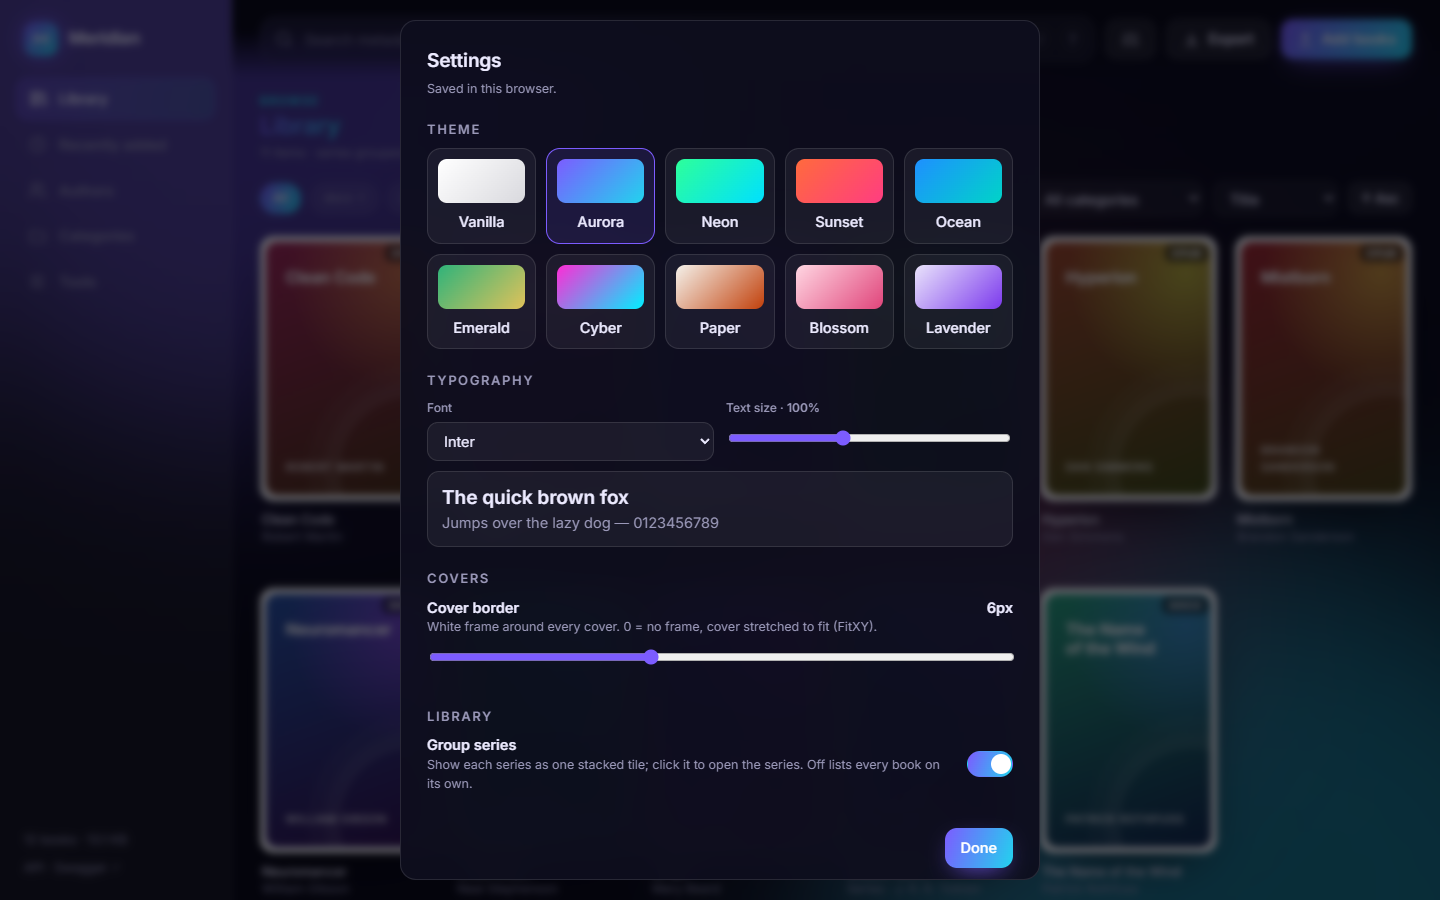
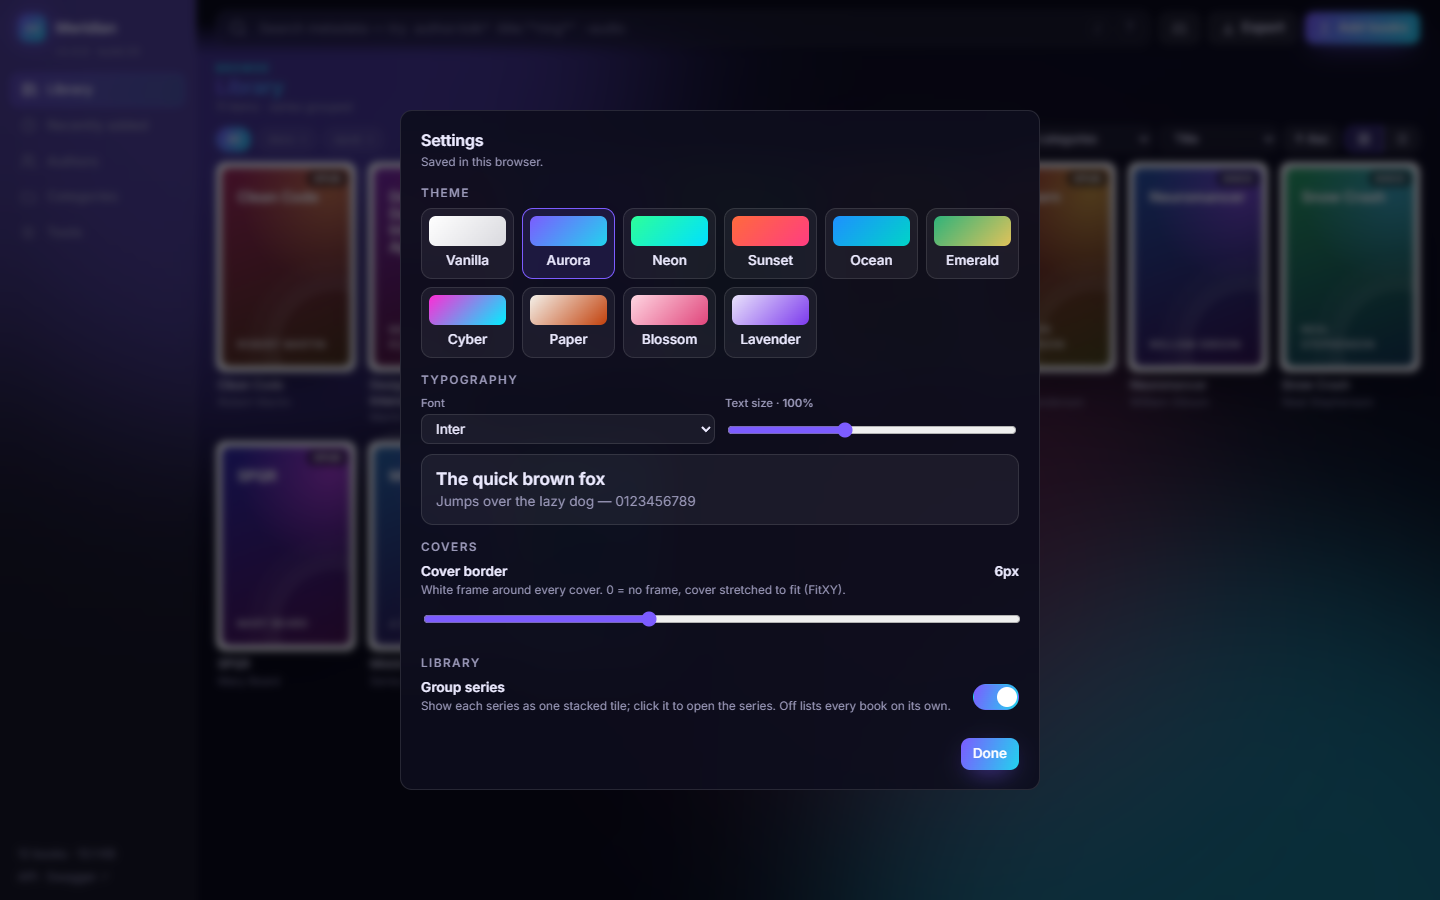
external search added

diff --git a/app/static/js/components.js b/app/static/js/components.js
@@ -1,6 +1,6 @@
 // Web components (light DOM, themed by app.css).
 import { api, esc, icon, toast, coverHTML, fmtBytes, emit, THEMES, FONTS, clampFs, getPref, setPref,
-  progressHTML, setProgress, runBatches, batchMessage } from "./api.js";
+  progressHTML, setProgress, runBatches, batchMessage, googleSearchUrl } from "./api.js";
 
 const EXT_OK = new Set("epub pdf docx doc odt rtf txt md html htm mobi azw azw3 kfx fb2 djvu cbz cbr cb7 lit chm pdb zip json".split(" "));
 const extOf = (n) => n.split(".").pop().toLowerCase();
@@ -72,6 +72,7 @@ class MxDrawer extends HTMLElement {
             <div class="actions">
               <a class="btn primary" href="/api/books/${b.id}/download">${icon("download")}Download</a>
               ${b.format === "pdf" ? `<a class="btn" target="_blank" rel="noopener" href="/api/books/${b.id}/download?inline=true">${icon("book")}Read</a>` : ""}
+              <button class="btn" data-act="web-search" title="Opens Google in a new tab, searching for this book's title, author and ISBN as shown in the form below. Nothing is sent until you click.">${icon("search")}Search Google</button>
               <button class="btn" data-act="cover">${icon("image")}${b.cover_source === "user" ? "Replace cover" : "Upload cover"}</button>
               ${b.cover_source === "user" ? `<button class="btn" data-act="uncover" title="Go back to the cover embedded in the book">Remove custom cover</button>` : ""}
               <input type="file" accept="image/*" hidden id="cover-in">
@@ -175,6 +176,10 @@ class MxDrawer extends HTMLElement {
     };
     const cin = this.querySelector("#cover-in");
     this.querySelector('[data-act="cover"]').onclick = () => cin.click();
+    this.querySelector('[data-act="web-search"]').onclick = () => {      // uses the form as it is now, including unsaved edits
+      const f = Object.fromEntries([...this.querySelectorAll("#mform [name]")].map((e) => [e.name, e.value]));
+      window.open(googleSearchUrl(f), "_blank", "noopener,noreferrer");
+    };
     cin.onchange = async () => {
       if (!cin.files[0]) return;
       const fd = new FormData(); fd.append("file", cin.files[0]);

diff --git a/app/static/js/api.js b/app/static/js/api.js
@@ -127,6 +127,14 @@ export const batchMessage = (r, total, verb = "Updated") => `${verb} ${r.updated
   + (r.unchanged ? ` · ${r.unchanged} already fine` : "") + (r.failed.length ? ` · ${r.failed.length} failed` : "")
   + (r.error ? ` · stopped: ${r.error.message || "error"}` : r.stopped ? ` · stopped, ${r.remaining} not processed` : "");
 
+/** Google search URL for a book: quoted title, authors and the ISBN (else the word "book"). It is only ever opened by the user's click
+ *  in a new tab - the app itself never contacts Google. */
+export function googleSearchUrl({ title = "", author = "", isbn = "" }) {
+  const authors = String(author).split(";").map((a) => a.trim()).filter(Boolean).join(" ");
+  const q = [title.trim() ? `"${title.trim()}"` : "", authors, String(isbn).trim() || "book"].filter(Boolean).join(" ");
+  return "https://www.google.com/search?q=" + encodeURIComponent(q);
+}
+
 export const emit = (name, detail) => document.dispatchEvent(new CustomEvent(name, { detail }));
 
 // ---- user preferences (theme, cover borders), persisted per browser

diff --git a/tests/test_offline.py b/tests/test_offline.py
@@ -17,6 +17,7 @@ def own_sources():
 def test_own_static_files_reference_no_other_host(path):
     text = path.read_text(encoding="utf-8")
     text = re.sub(r"https?://www\.w3\.org/[^\s'\"]*", "", text)      # xmlns attributes
+    text = text.replace("https://www.google.com/search?q=", "")        # the book panel's Search button, see the test below
     assert not EXTERNAL.findall(text), f"{path.name} mentions another host"
 
 
@@ -66,3 +67,12 @@ def test_bundled_assets_carry_their_licences():
     assert "Apache License" in (STATIC / "vendor" / "LICENSE-swagger-ui.txt").read_text(encoding="utf-8")
     assert "SmartBear" in (STATIC / "vendor" / "NOTICE-swagger-ui.txt").read_text(encoding="utf-8")       # Apache-2.0 section 4(d)
     assert (ROOT / "LICENSE").read_text(encoding="utf-8").startswith("MIT License")
+
+
+def test_google_search_is_only_a_link_the_user_clicks():
+    """The one place that names another host: the book panel's Search button. It must open a new tab (window.open from a click),
+    never be fetched by the app, and live in exactly one file."""
+    js = {p.name: p.read_text(encoding="utf-8") for p in (STATIC / "js").glob("*.js")}
+    assert [n for n, t in js.items() if "google.com" in t] == ["api.js"]
+    assert 'window.open(googleSearchUrl(f), "_blank", "noopener,noreferrer")' in js["components.js"]
+    assert not any(re.search(r"fetch\(\s*googleSearchUrl|api\(\s*googleSearchUrl", t) for t in js.values())

diff --git a/README.md b/README.md
@@ -168,6 +168,7 @@ mkdir -p data
 | Flat sharded storage | UUID hex split 4 chars at a time: `1234/5678/abcd/ef01/…/book-name.ext` (32 hex chars → 8 levels) |
 | Library export as ZIP | `GET /api/export?group_by=category` or `author` (optionally `format=`, `ids=`, `include_metadata=`) |
 | Metadata editing | `PATCH /api/books/{id}` (many books at once: `POST /api/books/bulk-update`, `POST /api/books/bulk-transform`). EPUB, PDF and DOCX get what they can hold **inside the file**; everything else goes into `book-name-info.json` next to the book. The response's `storage` field shows what went where. |
+| Web search | **Search Google** in the book panel opens a new browser tab with a Google search for the book's quoted title, authors and ISBN (or the word "book" when there is no ISBN), taken from the form as it is right now, including unsaved edits. It is an ordinary link opened by your click: nothing is sent anywhere until you press it, and the app itself never contacts Google. |
 | Delete books | **Book panel > Delete book**, or tick rows in list view and press **Delete** in the bar above the table. A warning dialog explains that it is permanent and lists what will go (for 10 or more books you must also type `delete`); Cancel has the focus, so Enter does not delete. Deleting removes the record **and** the book's folder on disk - the book file, cover and `-info.json` sidecar - then any parent folders left empty. Bulk deletes run in batches with a progress bar and Stop button, and report the space freed. A folder that cannot be removed (for example a file locked by another program) is reported, and **Tools > Duplicates & cleanup** sweeps up such leftovers. API: `DELETE /api/books/{id}`, `POST /api/books/bulk-delete`. |
 | Title ≠ filename | Editing the title never touches the file name. `POST /api/books/{id}/rename` renames the file (and its sidecar) separately. |
 | Themes and fonts | Ten themes (Vanilla, the default, plus Aurora, Neon, Sunset, Ocean, Emerald, Cyber, Paper, Blossom, Lavender), eleven open-source fonts and the system font, text size 80-130% (100% = 14.5px), cover border thickness and series grouping, all in Settings (sliders icon, top right) and saved per browser. The fonts are bundled with the app (Latin subset), so nothing is downloaded when you switch. `GET /api/books?group_series=true` returns the grouped view (`series_count` on each entry; filter with `series=` to list one series). |
@@ -232,7 +233,7 @@ Layout: `app/service.py` (ingest, edit, search, cleanup), `app/metadata.py` (EPU
 
 ## Notes
 
-* **No outside requests, ever.** The UI, the fonts and the Swagger page at `/docs` are all served by the app itself, and every page carries a `Content-Security-Policy` that tells the browser not to talk to any other host (`tests/test_offline.py` guards this). ReDoc is therefore not offered: it insists on loading a badge image from another site.
+* **The app makes no outside requests.** The UI, the fonts and the Swagger page at `/docs` are all served by the app itself (the only link to another site is the book panel's **Search Google** button, which opens a new tab when *you* click it), and every page carries a `Content-Security-Policy` that tells the browser not to talk to any other host (`tests/test_offline.py` guards this). ReDoc is therefore not offered: it insists on loading a badge image from another site.
 * Metadata is never looked up online: it is whatever is inside the files, an imported JSON, or what you type yourself (one book at a time, or many at once with Bulk edit).
 * No authentication is built in - put it behind a reverse proxy or VPN before exposing it.
 
